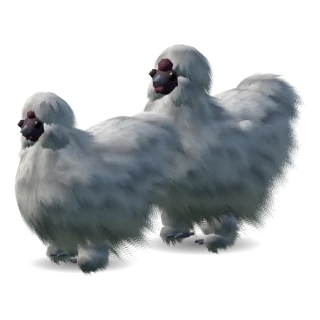
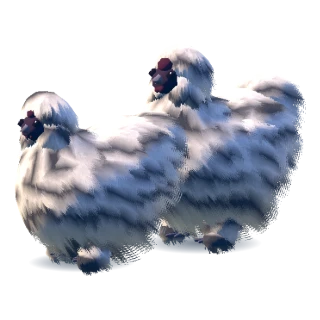
The Cuckoo Silkie: clear dark and white bars (her yes to the mock-up); its Book picture
Claude-Session: https://claude.ai/code/session_019sVPTkk8NWGF5qLvLgiKew

diff --git a/web3d/src/birds.js b/web3d/src/birds.js
@@ -123,7 +123,9 @@ const SIL = {
                rooster: { body: '#2b2420', top: '#33291f', hackle: '#d08b3b', saddle: '#c87c32', head: '#cf8a3a', crest: '#b8742e', wing: '#a4592a', prim: '#2b2420', tail: '#2b2420', pattern: null } },
   grey: { body: '#a6a8a7', top: '#b3b5b4' },
   splash: { body: '#efede8', spot: '#7a879b', pattern: 'splash' },
-  cuckoo: { body: '#b1b3b6', bars: '#5d6067', pattern: 'cuckoo' },
+  // (15 Nov 2026, Audrey: "The cuckoo silky looks a bit too grey can you make her proper cuckoo please", then of the mock-up
+  // "I like your new cuckoo add and replace in the game please": near white with clear dark bars, a little wider apart)
+  cuckoo: { body: '#eeeeef', bars: '#34363c', pattern: 'cuckoo', period: 0.04, edge: [-0.1, 0.5], barTone: 0.95 },
   red: { body: '#b1501f', top: '#c4622a', hackle: '#c8662b' },
   paint: { body: '#f5f2eb', spot: '#26252b', pattern: 'paint' },
   lavender: { body: '#b8b2c5', top: '#c3bdd0' },
@@ -216,7 +218,7 @@ function adultColour(S, rooster, reg, x, y, z, hw, top, out, nb, hc, tp) {
       FEAT.mode = 1; FEAT.c.copy(lin(S.bars)); FEAT.amt = hackle ? 0.35 : 0.85;
       if (!hackle) { const b = Math.sin((y + 0.012 * Math.sin(x * 40 + z * 30)) * 2 * Math.PI / 0.03); out.lerp(lin(S.bars), smooth(0.2, 0.7, b) * 0.2); }
     } break;
-    case 'cuckoo': { const b = Math.sin((y + 0.01 * Math.sin(x * 35 + z * 25)) * 2 * Math.PI / (S.period || 0.034)); out.lerp(lin(S.bars), smooth(S.edge ? S.edge[0] : 0.0, S.edge ? S.edge[1] : 0.8, b) * (S.barTone || 0.75)); } break;      // (period, edge, barTone: a mock-up's, 15 Nov 2026; the game's cuckoo as it was)
+    case 'cuckoo': { const b = Math.sin((y + 0.01 * Math.sin(x * 35 + z * 25)) * 2 * Math.PI / (S.period || 0.034)); out.lerp(lin(S.bars), smooth(S.edge ? S.edge[0] : 0.0, S.edge ? S.edge[1] : 0.8, b) * (S.barTone || 0.75)); } break;      // (period, edge, barTone: the Cuckoo Silkie's since 15 Nov 2026)
     case 'stripes': if (key === 'body') {
       // a Brahma's cape (Audrey's photos): from the nape down over the shoulders, its hackle feathers each black down the middle
       // with a white edge, the throat and breast white; a hen's tail coverts the same. Mode 3: long pointed hackle feathers

diff --git a/web3d/README.md b/web3d/README.md
@@ -5547,3 +5547,4 @@ Five runs at 402x874, about ten days each, no page errors in any:
   the shelf's words into a narrow column: the row wraps now, the button on a line of its own when there's no room;
   index.html `.gpan-r`), and "One moment…" goes as soon as Apple has answered (main.js `payEnd`).
 - **At Apple, the four bags' review pictures replaced** (15 Nov, 14:20, her signed-in Chrome): the Coins shelf at each bag with the new pictures, sideways (2796x1290; `SIDE=1 iapshots2.mjs`), accepted and processed for purse, basket, sack and cart. All twenty still "Finaliser avant soumission" (Apple's own record says metadata missing / draft, though each has its name in two languages, price, 175 countries, note and picture, and "Ajouter pour vérification" is offered); the Paid Apps agreement is active. Nothing sent for review. Whether TestFlight is handed the products is still to be seen on her iPhone.
+- **The Cuckoo Silkie's new look** (15 Nov, 17:16, her comment on the Breeds page: "The cuckoo silky looks a bit too grey can you make her proper cuckoo please"; shown as a mock-up first, her rule; then "I like your new cuckoo add and replace in the game please"): near white with clear dark bars a little wider apart (birds.js `SIL.cuckoo`: body #eeeeef, bars #34363c, `period` 0.04, `edge` [-0.1, 0.5], `barTone` 0.95; the cuckoo pattern takes those three). Only the grown Cuckoo's paint: no other Silkie colour, no model, its chick as it was. Its Breed Book picture retaken (`book/sil_cuckoo.webp`). `raretest`, `silktest`, `booktest`, `store2test`, `gametest` pass, sideways.
